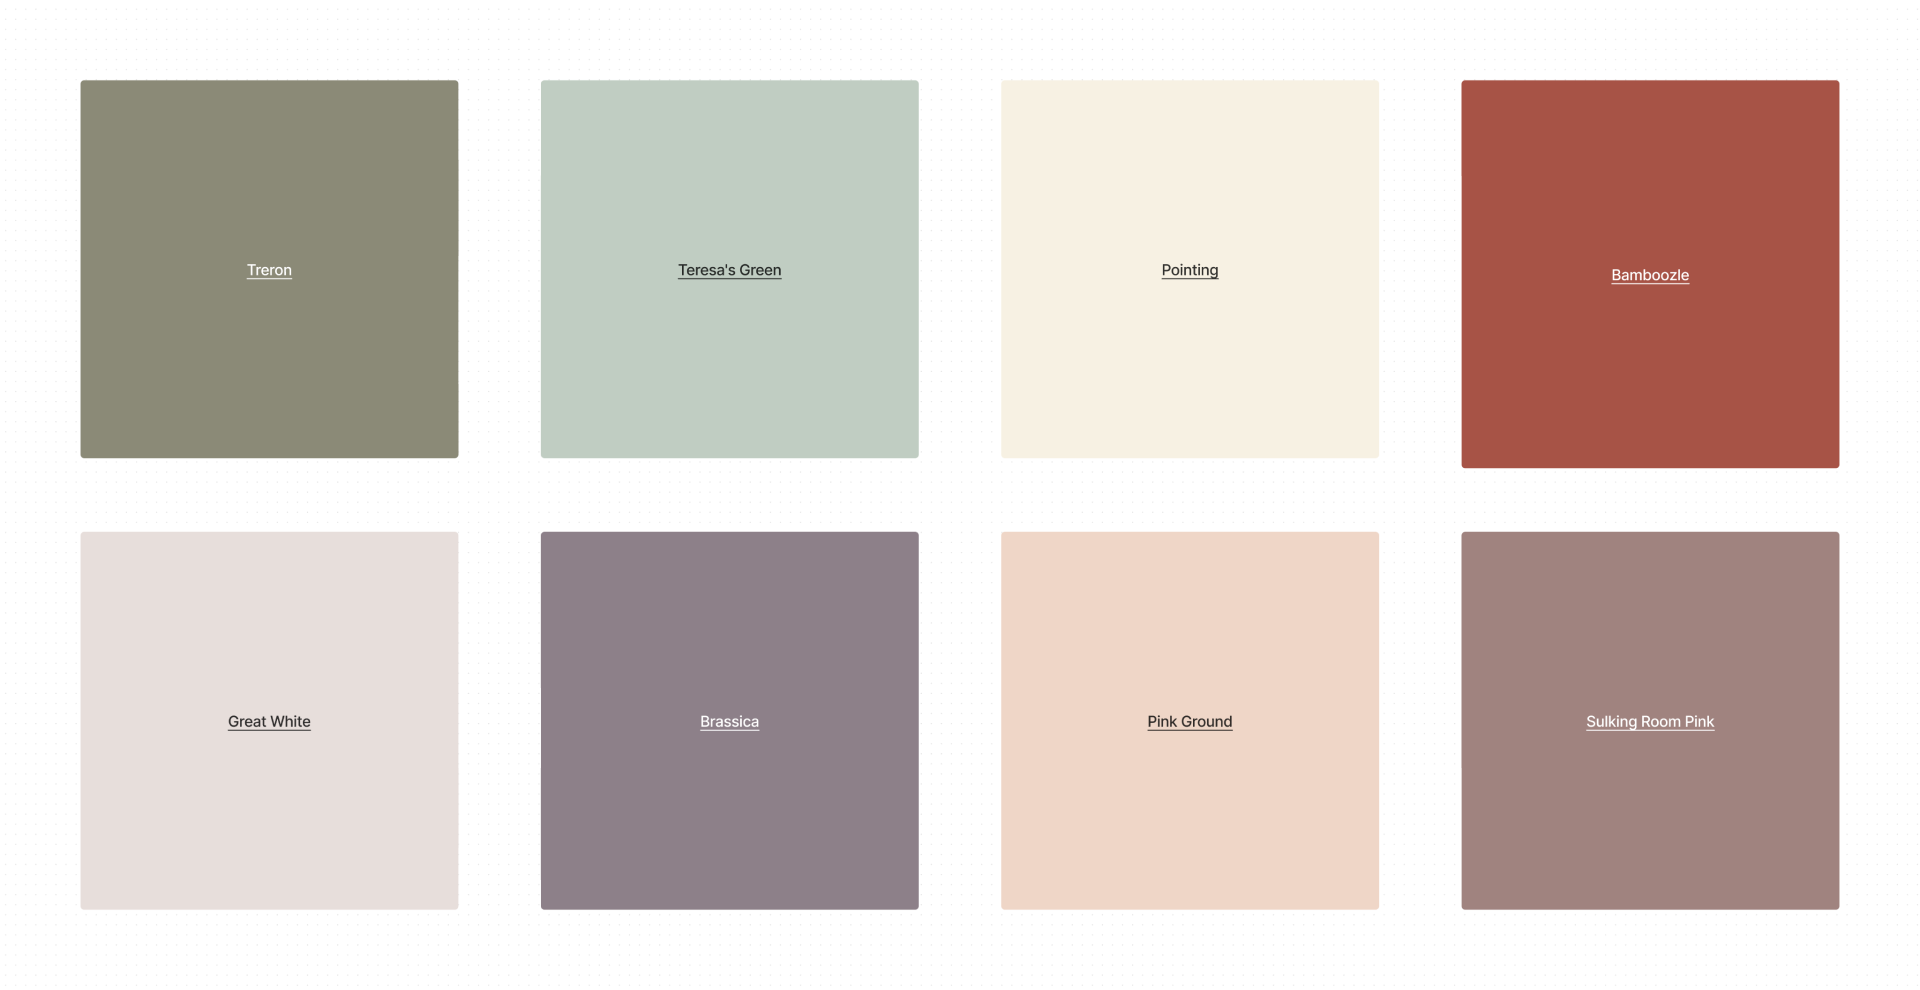
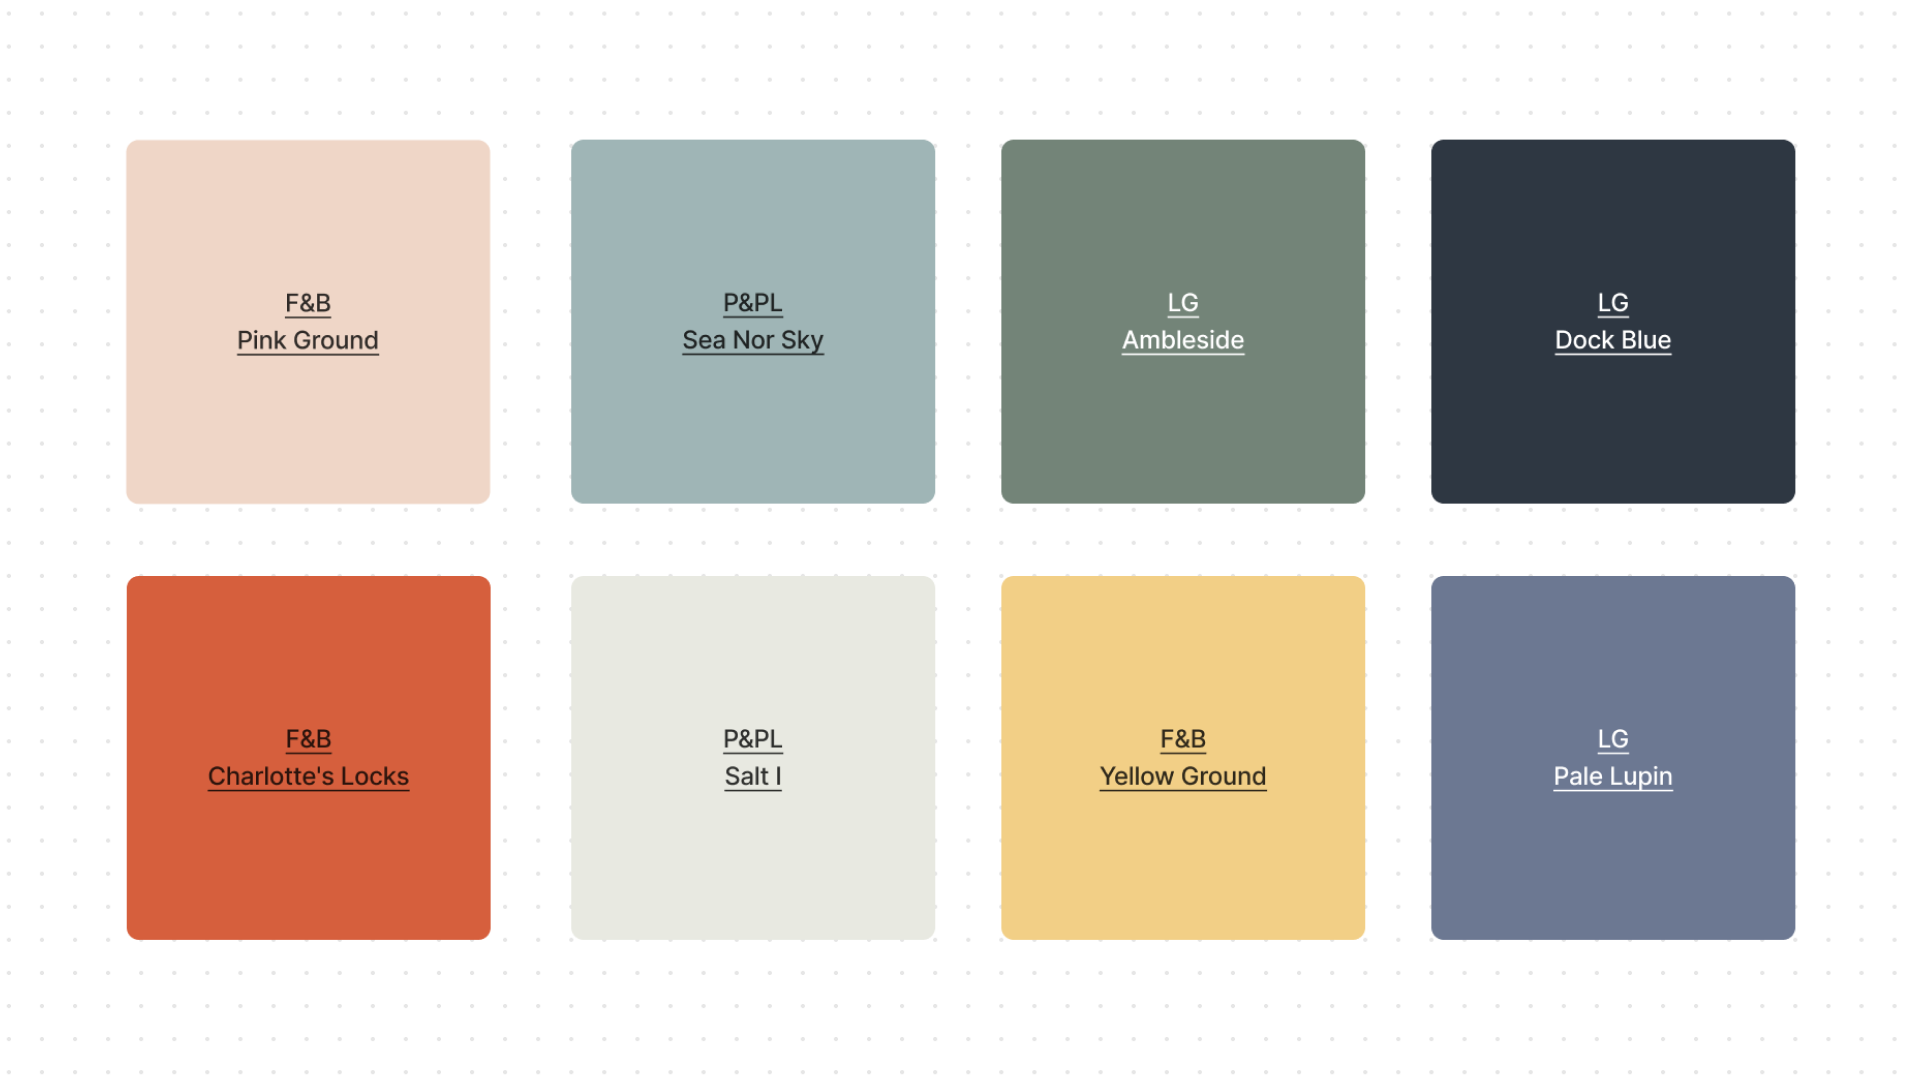
v1.1.0

diff --git a/CHANGELOG.md b/CHANGELOG.md
@@ -1,5 +1,12 @@
 # figjam-paint-swatcher
 
+## 1.1.0 / 2024-08-15
+
+- Remove custom sizing from shape
+- Add companies:
+  - Little Greene
+  - Paint & Paper Library
+
 ## 1.0.0 / 2024-08-14
 
 Initial release
